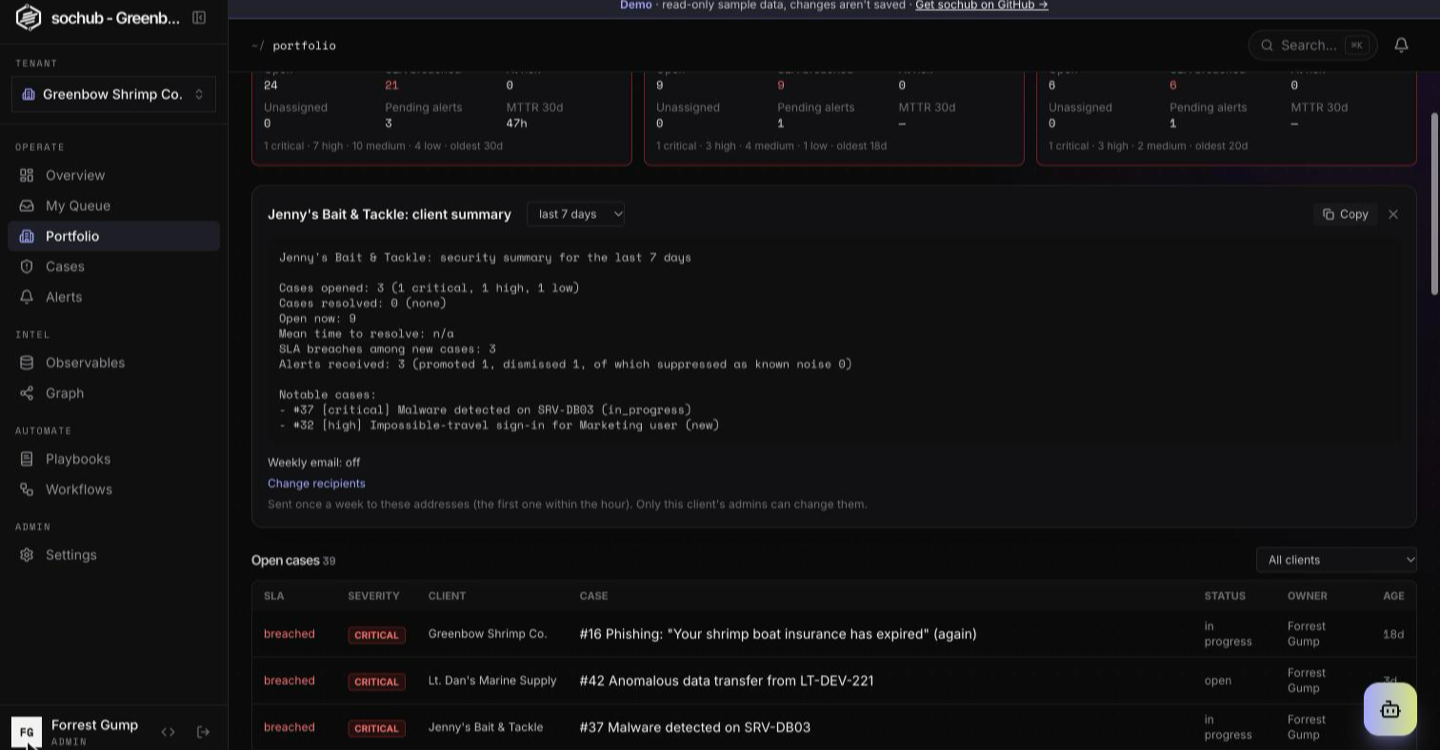
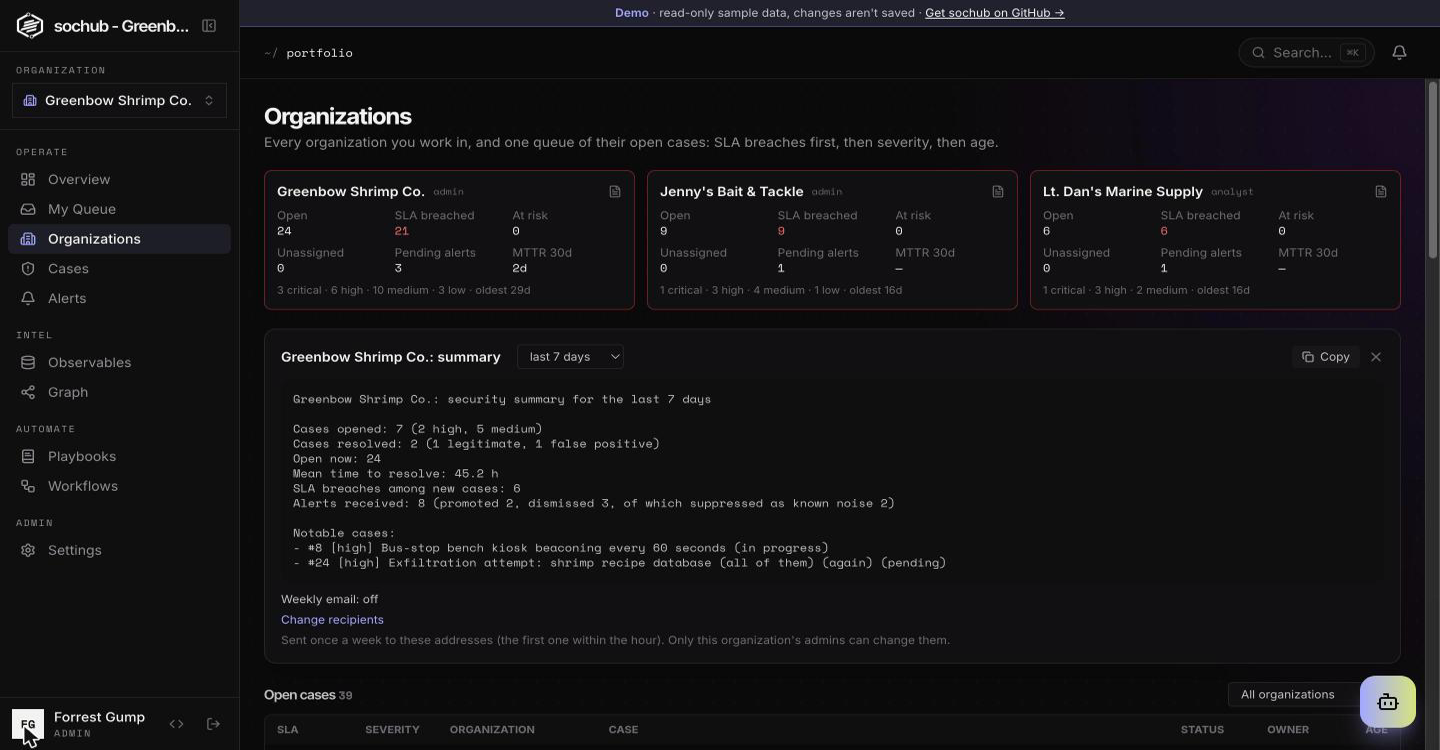
docs: position SOC Hub as case management (not a SIEM); multiple organizations is optional
- README and features: say plainly that SOC Hub is case management for
  security incidents and doesn't collect logs, search events or run
  detections; alerts come from the tools you already have.
- 'Portfolio (MSSP)' becomes the optional 'Multiple organizations' /
  'Organizations' view, for anyone running several organizations or
  keeping departments' incidents apart; user-facing 'client' and 'tenant'
  wording becomes 'organization' (API paths unchanged).
- Retook the Organizations screenshots.

diff --git a/frontend/src/features/portfolio/Portfolio.tsx b/frontend/src/features/portfolio/Portfolio.tsx
@@ -52,7 +52,7 @@ function DigestPanel({ tenant, onClose }: { tenant: TenantRow; onClose: () => vo
     return (
         <div className="glass-panel rounded-xl border border-line bg-panel p-4 space-y-3">
             <div className="flex items-center gap-2">
-                <h3 className="text-sm font-semibold text-fg">{tenant.name}: client summary</h3>
+                <h3 className="text-sm font-semibold text-fg">{tenant.name}: summary</h3>
                 <select value={days} onChange={(e) => { setDays(Number(e.target.value)); setCopied(false); }} aria-label="Period"
                     className="ml-2 bg-panel border border-line rounded-sm px-2 py-1 text-xs text-fg-2">
                     <option value={7}>last 7 days</option><option value={30}>last 30 days</option><option value={90}>last 90 days</option>
@@ -71,14 +71,14 @@ function DigestPanel({ tenant, onClose }: { tenant: TenantRow; onClose: () => vo
                         <button onClick={() => setRecipients(data.recipients.join(', '))} className="text-accent hover:underline">Change recipients</button>
                     ) : (
                         <div className="flex gap-2">
-                            <input value={recipients} onChange={(e) => setRecipients(e.target.value)} placeholder="ciso@client.com, it@client.com (empty = off)"
+                            <input value={recipients} onChange={(e) => setRecipients(e.target.value)} placeholder="ciso@example.com, it@example.com (empty = off)"
                                 aria-label="Recipients" className="flex-1 bg-panel border border-line rounded-sm px-2 py-1 text-xs text-fg" />
                             <button onClick={() => save.mutate()} disabled={save.isPending} className="px-2.5 py-1 bg-accent text-on-accent rounded-sm">Save</button>
                             <button onClick={() => setRecipients(null)} className="px-2 py-1 text-fg-3">Cancel</button>
                         </div>
                     ))}
                     {save.isError && <p role="alert" className="text-severity-critical">{apiError(save.error, 'Could not save the recipients.')}</p>}
-                    <p className="text-muted">Sent once a week to these addresses (the first one within the hour). Only this client's admins can change them.</p>
+                    <p className="text-muted">Sent once a week to these addresses (the first one within the hour). Only this organization's admins can change them.</p>
                 </div>
             )}
         </div>
@@ -94,7 +94,7 @@ export default function Portfolio() {
     const { data: me } = useQuery({ queryKey: ['currentUser'], queryFn: async () => (await api.get('/users/me')).data as User, staleTime: 300_000 });
     const { data, isLoading, dataUpdatedAt } = useQuery({ queryKey: ['portfolio'], queryFn: async () => (await api.get('/portfolio/')).data as Overview, refetchInterval: 60_000 });
 
-    // Opening a case of another client switches the active tenant first (same checks as the tenant switcher).
+    // Opening a case of another organization switches the active tenant first (same checks as the tenant switcher).
     const open = async (tenantId: number, path: string) => {
         setSwitchError(null);
         try {
@@ -104,19 +104,19 @@ export default function Portfolio() {
             }
             navigate(path);
         } catch (err) {
-            setSwitchError(apiError(err, 'Could not switch to that client.'));
+            setSwitchError(apiError(err, 'Could not switch to that organization.'));
         }
     };
 
-    if (isLoading || !data) return <PageContainer><p className="font-mono text-xs text-muted">$ loading portfolio…</p></PageContainer>;
+    if (isLoading || !data) return <PageContainer><p className="font-mono text-xs text-muted">$ loading organizations…</p></PageContainer>;
     const queue = tenantFilter === 'all' ? data.queue : data.queue.filter((q) => q.tenant_id === tenantFilter);
     return (
         <PageContainer className="space-y-5">
             <div>
-                <h1 className="text-2xl font-bold text-fg tracking-tight">Portfolio</h1>
+                <h1 className="text-2xl font-bold text-fg tracking-tight">Organizations</h1>
                 <p className="text-fg-3 text-sm mt-0.5">
-                    Every client you work in, and one queue of their open cases: SLA breaches first, then severity, then age.
-                    {data.hidden_tenants > 0 && ` ${data.hidden_tenants} client${data.hidden_tenants > 1 ? 's' : ''} need a different sign-in (SSO or two-factor) and are not shown.`}
+                    Every organization you work in, and one queue of their open cases: SLA breaches first, then severity, then age.
+                    {data.hidden_tenants > 0 && ` ${data.hidden_tenants} organization${data.hidden_tenants > 1 ? 's' : ''} need a different sign-in (SSO or two-factor) and are not shown.`}
                 </p>
             </div>
             {switchError && <p role="alert" className="text-sm text-severity-critical">{switchError}</p>}
@@ -126,7 +126,7 @@ export default function Portfolio() {
                         <div className="flex items-center gap-2">
                             <button onClick={() => open(t.id, '/')} className="text-sm font-semibold text-fg hover:underline truncate">{t.name}</button>
                             <span className="text-[10px] font-mono text-muted">{t.role}</span>
-                            <button onClick={() => setDigestFor(t)} title="Client summary" className="ml-auto text-muted hover:text-fg"><FileText size={14} /></button>
+                            <button onClick={() => setDigestFor(t)} title="Summary" className="ml-auto text-muted hover:text-fg"><FileText size={14} /></button>
                         </div>
                         <dl className="grid grid-cols-3 gap-2 text-xs">
                             <div><dt className="text-muted">Open</dt><dd className="text-fg font-mono">{t.open_cases}</dd></div>
@@ -147,16 +147,16 @@ export default function Portfolio() {
             <div className="space-y-2">
                 <div className="flex items-center gap-2">
                     <h2 className="text-sm font-semibold text-fg-2">Open cases <span className="font-mono text-xs text-muted">{queue.length}{data.queue_total > data.queue.length && ` of ${data.queue_total}`}</span></h2>
-                    <select value={tenantFilter} onChange={(e) => setTenantFilter(e.target.value === 'all' ? 'all' : Number(e.target.value))} aria-label="Client"
+                    <select value={tenantFilter} onChange={(e) => setTenantFilter(e.target.value === 'all' ? 'all' : Number(e.target.value))} aria-label="Organization"
                         className="ml-auto bg-panel border border-line rounded-sm px-2 py-1 text-xs text-fg-2">
-                        <option value="all">All clients</option>
+                        <option value="all">All organizations</option>
                         {data.tenants.map((t) => <option key={t.id} value={t.id}>{t.name}</option>)}
                     </select>
                 </div>
                 <div className="overflow-x-auto rounded-lg border border-line">
                     <table className="w-full text-sm">
                         <thead className="text-[11px] uppercase text-muted bg-surface">
-                            <tr><th className="px-3 py-2 text-left">SLA</th><th className="px-3 py-2 text-left">Severity</th><th className="px-3 py-2 text-left">Client</th>
+                            <tr><th className="px-3 py-2 text-left">SLA</th><th className="px-3 py-2 text-left">Severity</th><th className="px-3 py-2 text-left">Organization</th>
                                 <th className="px-3 py-2 text-left">Case</th><th className="px-3 py-2 text-left">Status</th><th className="px-3 py-2 text-left">Owner</th><th className="px-3 py-2 text-left">Age</th></tr>
                         </thead>
                         <tbody className="divide-y divide-line">

diff --git a/frontend/src/features/tenants/TenantSwitcher.tsx b/frontend/src/features/tenants/TenantSwitcher.tsx
@@ -73,7 +73,7 @@ export default function TenantSwitcher() {
                 setMfaBlocked(true);
             } else {
                 const d = e.response?.data?.detail;
-                setSwitchError(typeof d === 'string' ? d : 'Could not switch tenant. Try again.');
+                setSwitchError(typeof d === 'string' ? d : 'Could not switch organization. Try again.');
             }
         } finally {
             setBusy(false);
@@ -82,7 +82,7 @@ export default function TenantSwitcher() {
 
     return (
         <div className="px-3 py-3 border-b border-line"><div className="relative">
-            <p className="label-mono mb-1.5 px-1">{isSuper ? 'viewing tenant' : 'tenant'}</p>
+            <p className="label-mono mb-1.5 px-1">{isSuper ? 'viewing organization' : 'organization'}</p>
             <button
                 onClick={() => { setOpen((o) => !o); setMfaBlocked(false); setSwitchError(null); }}
                 disabled={busy}
@@ -92,7 +92,7 @@ export default function TenantSwitcher() {
             >
                 <span className="flex items-center gap-2 min-w-0">
                     <Building2 size={14} className="text-accent shrink-0" />
-                    <span className="truncate font-medium">{active?.name ?? 'Select a tenant'}</span>
+                    <span className="truncate font-medium">{active?.name ?? 'Select an organization'}</span>
                 </span>
                 {busy
                     ? <Loader2 size={14} className="animate-spin text-muted shrink-0" />

diff --git a/frontend/src/components/layout/Layout.tsx b/frontend/src/components/layout/Layout.tsx
@@ -20,7 +20,7 @@ const NAV_GROUPS = [
     { label: 'operate', items: [
         { icon: LayoutDashboard, label: 'Overview', path: '/' },
         { icon: Inbox, label: 'My Queue', path: '/queue' },
-        { icon: Building2, label: 'Portfolio', path: '/portfolio', multiTenant: true },
+        { icon: Building2, label: 'Organizations', path: '/portfolio', multiTenant: true },
         { icon: ShieldAlert, label: 'Cases', path: '/cases' },
         { icon: Bell, label: 'Alerts', path: '/alerts' },
     ] },

diff --git a/backend/app/services/portfolio.py b/backend/app/services/portfolio.py
@@ -1,4 +1,4 @@
-"""MSSP portfolio: metrics and one merged queue across the tenants a user works in, plus a per-client digest.
+"""Organizations view: metrics and one merged queue across the tenants a user works in, plus a digest each.
 
 Only tenants this session could switch into right now are included (membership, active tenant, the tenant's
 sign-in method, its MFA requirement): the portfolio never shows data the tenant switcher would refuse.
@@ -99,7 +99,7 @@ async def overview(db: AsyncSession, user: User) -> dict:
 
 
 async def digest(db: AsyncSession, tenant: Tenant, days: int = 7) -> dict:
-    """What happened for one client in the last `days` days."""
+    """What happened in one organization in the last `days` days."""
     now = datetime.now(timezone.utc)
     since = now - timedelta(days=days)
     policy = await load_policy_overrides(db, tenant.id)

diff --git a/backend/app/api/v1/portfolio.py b/backend/app/api/v1/portfolio.py
@@ -1,4 +1,4 @@
-"""MSSP portfolio: one view across the tenants a user works in (see app/services/portfolio.py)."""
+"""Organizations view: one view across the organizations (tenants) a user works in (see app/services/portfolio.py)."""
 from typing import Any, List
 
 from fastapi import APIRouter, Depends, HTTPException, Query

diff --git a/README.md b/README.md
@@ -2,7 +2,7 @@
 
 # sochub — Case Management
 
-**A multi-tenant Security Operations Center (SOC) case-management platform with a built-in, local-LLM investigation copilot.**
+**Case management for security incidents, with a built-in, local-LLM investigation copilot.**
 
 FastAPI · React 19 · PostgreSQL · Ollama
 
@@ -16,16 +16,20 @@ FastAPI · React 19 · PostgreSQL · Ollama
 
 ---
 
-sochub is an incident-response workbench for security teams. Analysts triage cases,
-attach IOCs and artifacts, work IR playbooks, and visualize how indicators connect
-cases — assisted by an AI copilot that runs entirely on a **local** model (no data
-leaves your infrastructure) and proposes actions you explicitly approve.
+sochub is where a security team works its incidents: analysts triage alerts into cases,
+attach IOCs and artifacts, follow IR playbooks, run response actions, and write the report,
+assisted by an AI copilot that runs entirely on a **local** model (no data leaves your
+infrastructure) and proposes actions you explicitly approve.
+
+> **sochub is case management, not a SIEM, and it doesn't replace one.** It doesn't collect
+> or store logs, search events or run detection rules. Your SIEM, EDR, email security and other
+> tools keep doing the detection; their alerts come in (webhook, or a scheduled pull workflow)
+> and sochub is where people handle the incident from first alert to closed case.
 
 ## Highlights
 
-- 🏢 **Multi-tenant**: one account, many tenants, and a **role per tenant**. Data is isolated per row, and there's an in-app tenant switcher.
 - 🤖 **Investigation Copilot**: a global, context-aware assistant.
-  - It runs on a local LLM (Ollama) by default, or on the AI provider you configure per tenant.
+  - It runs on a local LLM (Ollama) by default, or on the AI provider you configure per organization.
   - It **proposes actions** that you confirm before anything is written.
 - 🧠 **AI triage**: every new case gets a suggested severity, tags, playbook, related cases and next steps.
 - 🗂 **One Activity feed per case**: the incident glance, investigation events, notes and system changes in one story.
@@ -35,7 +39,6 @@ leaves your infrastructure) and proposes actions you explicitly approve.
   - A task can link a workflow: **Run** it from the case, and the workflow records its result on the task and ticks it.
 - 🔇 **Alert suppression**: expiring, auditable rules for known noise, with a preview and "Suppress similar".
 - 🎫 **Ticketing / PSA sync per task**: send one case task to Jira, HaloPSA or ConnectWise; closing the ticket ticks the task, and the task's result goes back to the ticket.
-- 🏢 **Portfolio (MSSP)**: one queue and metrics across every client you work in, plus weekly client summaries.
 - 🛡 **Containment guardrails**: protected VIPs/servers/ranges, daily and per-case caps, and a release ledger for automated containment.
 - 🙋 **"Was this you?"**: ask the user by email or Slack; their answer dismisses the alert or opens a case.
 - 🧪 **Threat-intel enrichment**: IOCs and artifacts are checked against VirusTotal, URLhaus, ThreatFox, RDAP and crt.sh.
@@ -43,6 +46,7 @@ leaves your infrastructure) and proposes actions you explicitly approve.
 - 📎 **Evidence**: file attachments on cases.
   - Malware samples are stored in a password-protected ZIP, and each upload is hashed into an artifact.
 - 📝 **Incident reports**: an AI-assisted draft plus analyst editing.
+- 🏢 **Multiple organizations (optional)**: keep separate organizations, or departments whose incidents should stay apart, each with its own data and roles. People who work in more than one switch between them and get a combined view and weekly summaries. A single team never sees any of this.
   - Includes TTD/TTC/TTR and swimlane timeline charts.
   - Exports to PDF or JSON with TLP marking.
 - ⚙ **Workflows**: a visual workflow builder with conditions, loops, case and alert actions, and HTTP requests.
@@ -54,11 +58,11 @@ leaves your infrastructure) and proposes actions you explicitly approve.
 - 🔔 **Collaboration**: `@mentions` in comments, case following, and an in-app notification bell.
   - Mentions, assignments and SLA breaches also go out by Slack DM or email.
 - 👤 **Profiles & two-factor**: photo, timezone, and a password change that signs out your other sessions.
-  - Authenticator-app MFA, which a tenant can make mandatory.
+  - Authenticator-app MFA, which an organization can make mandatory.
 - 📊 **Telemetry dashboard**: opened-vs-resolved trends, a severity × status heatmap, case aging, MTTR and SLA compliance.
 - 🕸 **Investigation graph**: a force-directed map of cases, artifacts and IOCs that reveals cross-case correlation.
 - 🔐 **Security first**:
-  - per-webhook API keys and per-tenant SAML SSO;
+  - per-webhook API keys and per-organization SAML SSO;
   - Argon2 password hashing and session revocation;
   - SSRF-guarded automations;
   - security headers and full audit logging.
@@ -109,15 +113,16 @@ Known noise is auto-dismissed at ingest by expiring, auditable rules. **Suppress
 </tr>
 </table>
 
-### 🏢 Portfolio for MSSPs
+### 🏢 Working across organizations (optional)
 
-Every client you work in: SLA breaches, unassigned work, pending alerts and MTTR per client, one merged queue, and a
-copyable or weekly-emailed client summary.
+Only for people who belong to more than one organization, for example separate companies or departments kept apart:
+SLA breaches, unassigned work, pending alerts and MTTR per organization, one combined queue, and a copyable or
+weekly-emailed summary per organization.
 
 <table>
 <tr>
-<td width="50%"><img src="docs/images/portfolio.png" alt="Portfolio: client cards and the merged queue" /></td>
-<td width="50%"><img src="docs/images/portfolio-summary.png" alt="Client summary for the last 7 days" /></td>
+<td width="50%"><img src="docs/images/portfolio.png" alt="Organizations: one card per organization and the combined queue" /></td>
+<td width="50%"><img src="docs/images/portfolio-summary.png" alt="An organization's summary for the last 7 days" /></td>
 </tr>
 </table>
 
@@ -202,7 +207,7 @@ A task can link a workflow. On the case, **Run** starts it, and the workflow rec
 </tr>
 <tr>
 <td width="50%"><img src="docs/images/users-mfa.png" alt="Users with MFA status" /></td>
-<td width="50%"><img src="docs/images/settings-security.png" alt="Require two-factor for the tenant" /></td>
+<td width="50%"><img src="docs/images/settings-security.png" alt="Require two-factor for the organization" /></td>
 </tr>
 </table>
 
@@ -235,9 +240,9 @@ A task can link a workflow. On the case, **Run** starts it, and the workflow rec
 |---|---|
 | Backend | FastAPI · SQLAlchemy (async) · PostgreSQL (asyncpg) · Alembic |
 | Frontend | React 19 · TypeScript · TanStack Query · React Router v7 · Tailwind CSS · Recharts |
-| Auth | JWT (HS256) with session revocation · Argon2 · TOTP two-factor · per-tenant SAML SSO (python3-saml) |
+| Auth | JWT (HS256) with session revocation · Argon2 · TOTP two-factor · per-organization SAML SSO (python3-saml) |
 | Background | Celery · Redis |
-| AI | Ollama (local, `llama3.2:3b`) or a per-tenant provider |
+| AI | Ollama (local, `llama3.2:3b`) or a per-organization provider |
 | Infra | Docker Compose · multi-arch images on Docker Hub |
 
 ## Quick start
@@ -278,12 +283,12 @@ Full docs live in **[`docs/`](docs/README.md)**:
 | [Architecture](docs/architecture.md) | Components, data model, request flow |
 | [Configuration](docs/configuration.md) | Environment variables, security knobs |
 | [Configuration guide](docs/configuration-guide.md) | SSO attributes, MFA, guests, Slack and AI set up right, with screenshots and error fixes |
-| [Features](docs/features.md) | Copilot, playbooks, dashboard, graph, multi-tenancy |
-| [SAML SSO](docs/sso/saml-design.md) | Per-tenant single sign-on |
+| [Features](docs/features.md) | Cases, copilot, playbooks, automation, dashboard, graph, multiple organizations |
+| [SAML SSO](docs/sso/saml-design.md) | Per-organization single sign-on |
 | [Design notes](docs/README.md#design-notes) | Per-subsystem design records |
 
 ## Status & license
 
-Active development. This is a portfolio/reference implementation — review the
+Active development. This is a reference implementation: review the
 security posture and configuration before any production use. License: _to be
 decided by the repository owner._

diff --git a/docs/features.md b/docs/features.md
@@ -1,5 +1,10 @@
 # Features
 
+SOC Hub is **case management for security incidents**: the place where people triage, investigate, respond to and
+report on incidents. It is **not a SIEM** and doesn't replace one: it doesn't collect or store logs, search events or
+run detection rules. Alerts from your SIEM, EDR, email security and other tools come in through webhooks or scheduled
+pull workflows, and the work on them happens here.
+
 ## Cases & investigation
 
 Create and work security cases with severity/status, tags, a description, attached **artifacts**, **assets** and
@@ -49,38 +54,41 @@ phase. Clicking an item scrolls the feed to it.
 
 ![Incident at a glance: milestones, status phases and pinned items](images/case-glance.png)
 
-## Multi-tenancy
+## Multiple organizations (optional)
 
-One account can belong to **many tenants** with a **different role per tenant**.
+Most teams use one organization and never see this. It's there for anyone who runs several separate organizations
+(subsidiaries, clients) or wants incidents of some departments kept apart: each organization (a *tenant* in the API)
+has its own cases, alerts, settings and members, and one account can belong to several with a **different role in
+each**.
 
 | Role | Scope | Can |
 |---|---|---|
-| `super_admin` | Global | Manage all tenants, switch into any, create admins, author marketplace playbooks |
-| `admin` | Per tenant | Manage members, configure SSO, import/author playbooks |
-| `analyst` | Per tenant | Create/update cases, artifacts, tasks |
-| `viewer` | Per tenant | Read-only |
+| `super_admin` | Global | Manage all organizations, switch into any, create admins, author marketplace playbooks |
+| `admin` | Per organization | Manage members, configure SSO, import/author playbooks |
+| `analyst` | Per organization | Create/update cases, artifacts, tasks |
+| `viewer` | Per organization | Read-only |
 
-The active tenant rides in the JWT; switch it from the sidebar picker
+The active organization rides in the JWT; switch it from the sidebar picker
 (`POST /auth/switch-tenant`). All data is row-isolated by `tenant_id`.
 
 
-### Portfolio (MSSP view)
+### Organizations view (combined, for people in more than one)
 
-![Portfolio](images/portfolio.png)
+![Organizations view](images/portfolio.png)
 
-Users who belong to more than one tenant get **Portfolio** in the sidebar: one card per client (open cases,
-SLA breached and at risk, unassigned, pending alerts, 30-day MTTR, oldest open case) and one queue of every
-client's open cases, ordered SLA-breached first, then severity, then age. Opening a case of another client
-switches the active tenant first, with the same checks as the tenant switcher.
+Users who belong to more than one organization get **Organizations** in the sidebar: one card per organization
+(open cases, SLA breached and at risk, unassigned, pending alerts, 30-day MTTR, oldest open case) and one queue of
+every organization's open cases, ordered SLA-breached first, then severity, then age. Opening a case of another
+organization switches to it first, with the same checks as the switcher.
 
-- Only tenants this session could switch into right now appear: a client that requires SSO or two-factor the
-  session doesn't have is left out (the page says how many), as are deactivated tenants. Super admins, who
-  can switch into any tenant, see every active tenant (the first 100 by name) and appear in the portfolio's
-  platform audit like any other read.
-- **Client summary** (the document icon on a card): the last 7, 30 or 90 days of cases opened and resolved
-  with outcomes, MTTR, SLA breaches, alerts received/promoted/dismissed/suppressed and notable cases, as text
-  to copy into an email or report. That client's admins can set up to 10 recipients for a **weekly email** of
-  the 7-day summary (sent hourly-checked, at most once a week; the first one within the hour).
+- Only organizations this session could switch into right now appear: one that requires SSO or two-factor the
+  session doesn't have is left out (the page says how many), as are deactivated ones. Super admins, who can switch
+  into any organization, see every active one (the first 100 by name) and appear in the platform audit like any
+  other read.
+- **Summary** (the document icon on a card): the last 7, 30 or 90 days of cases opened and resolved with outcomes,
+  MTTR, SLA breaches, alerts received/promoted/dismissed/suppressed and notable cases, as text to copy into an
+  email or report. That organization's admins can set up to 10 recipients for a **weekly email** of the 7-day
+  summary (checked hourly, sent at most once a week; the first one within the hour).
 ## Investigation Copilot
 
 A global, context-aware assistant. It runs on the configured AI provider, which is

diff --git a/docs/README.md b/docs/README.md
@@ -12,7 +12,7 @@ into the per-subsystem design notes.
 | [Configuration](configuration.md) | Environment variables and security settings |
 | [Configuration guide](configuration-guide.md) | Step-by-step SSO, MFA, guests, Slack and AI setup with screenshots, and what each error means |
 | [Deployment](deployment.md) | Prebuilt images, Fargate, a VPS or Kubernetes |
-| [Features](features.md) | Cases (Activity, tasks, artifacts & assets), copilot, playbooks and task automations, suppression, ticketing, portfolio, containment guardrails, dashboard, graph, multi-tenancy, webhooks |
+| [Features](features.md) | Cases (Activity, tasks, artifacts & assets), copilot, playbooks and task automations, suppression, ticketing, containment guardrails, dashboard, graph, multiple organizations (optional), webhooks |
 | [Slack](slack/setup.md) | Bring-your-own Slack app, Socket Mode, `/sochub` |
 | [Workflows](workflows/README.md) | Automation engine and vendor integrations |
 | [Case guests](guests/README.md) | Inviting outside people to a single case |

diff --git a/docs/mcp/README.md b/docs/mcp/README.md
@@ -147,8 +147,8 @@ Guests (people invited to a single case) can never use MCP.
 
 Tenant, user, membership, invitation, SSO, MFA and session administration; secrets and webhook keys; workflow
 templates, the HTTP allowlist, enabling/disabling/deleting workflows; enabling a suppression rule; changing the
-containment guardrails or the ticketing connection; the cross-tenant Portfolio (an MCP connection acts in one tenant;
-use `get_client_summary` per tenant); the playbook marketplace; attachments; report PDFs; Slack war rooms; following
+containment guardrails or the ticketing connection; the combined Organizations view (an MCP connection acts in one organization;
+use `get_client_summary` for its summary); the playbook marketplace; attachments; report PDFs; Slack war rooms; following
 cases; bulk alert actions (call the single-alert tools); AI timeline suggestions; the guest summary; answering a
 "was this you?" question (only the asked person can); anything for super admins.
 

diff --git a/docs/configuration-guide.md b/docs/configuration-guide.md
@@ -244,8 +244,8 @@ relay needs them) in `backend/.env`, and `FRONTEND_URL` set to the address peopl
 - **Ask user (email)** steps and the *Ask the user by email: was this you?* template email a link to
   `FRONTEND_URL/verify/<token>`. If `FRONTEND_URL` is wrong the link is dead and the question times out. Without SMTP
   the step fails with "email is not set up on this server".
-- **Weekly client summaries** (Portfolio → a client's summary → *Change recipients*, that client's admins): the beat
-  task checks hourly and sends at most once a week per client. Without SMTP nothing is sent and nothing retries
+- **Weekly organization summaries** (Organizations → an organization's summary → *Change recipients*, that
+  organization's admins): the beat task checks hourly and sends at most once a week per organization. Without SMTP nothing is sent and nothing retries
   every hour.
 
 ## 11. Alert suppression
